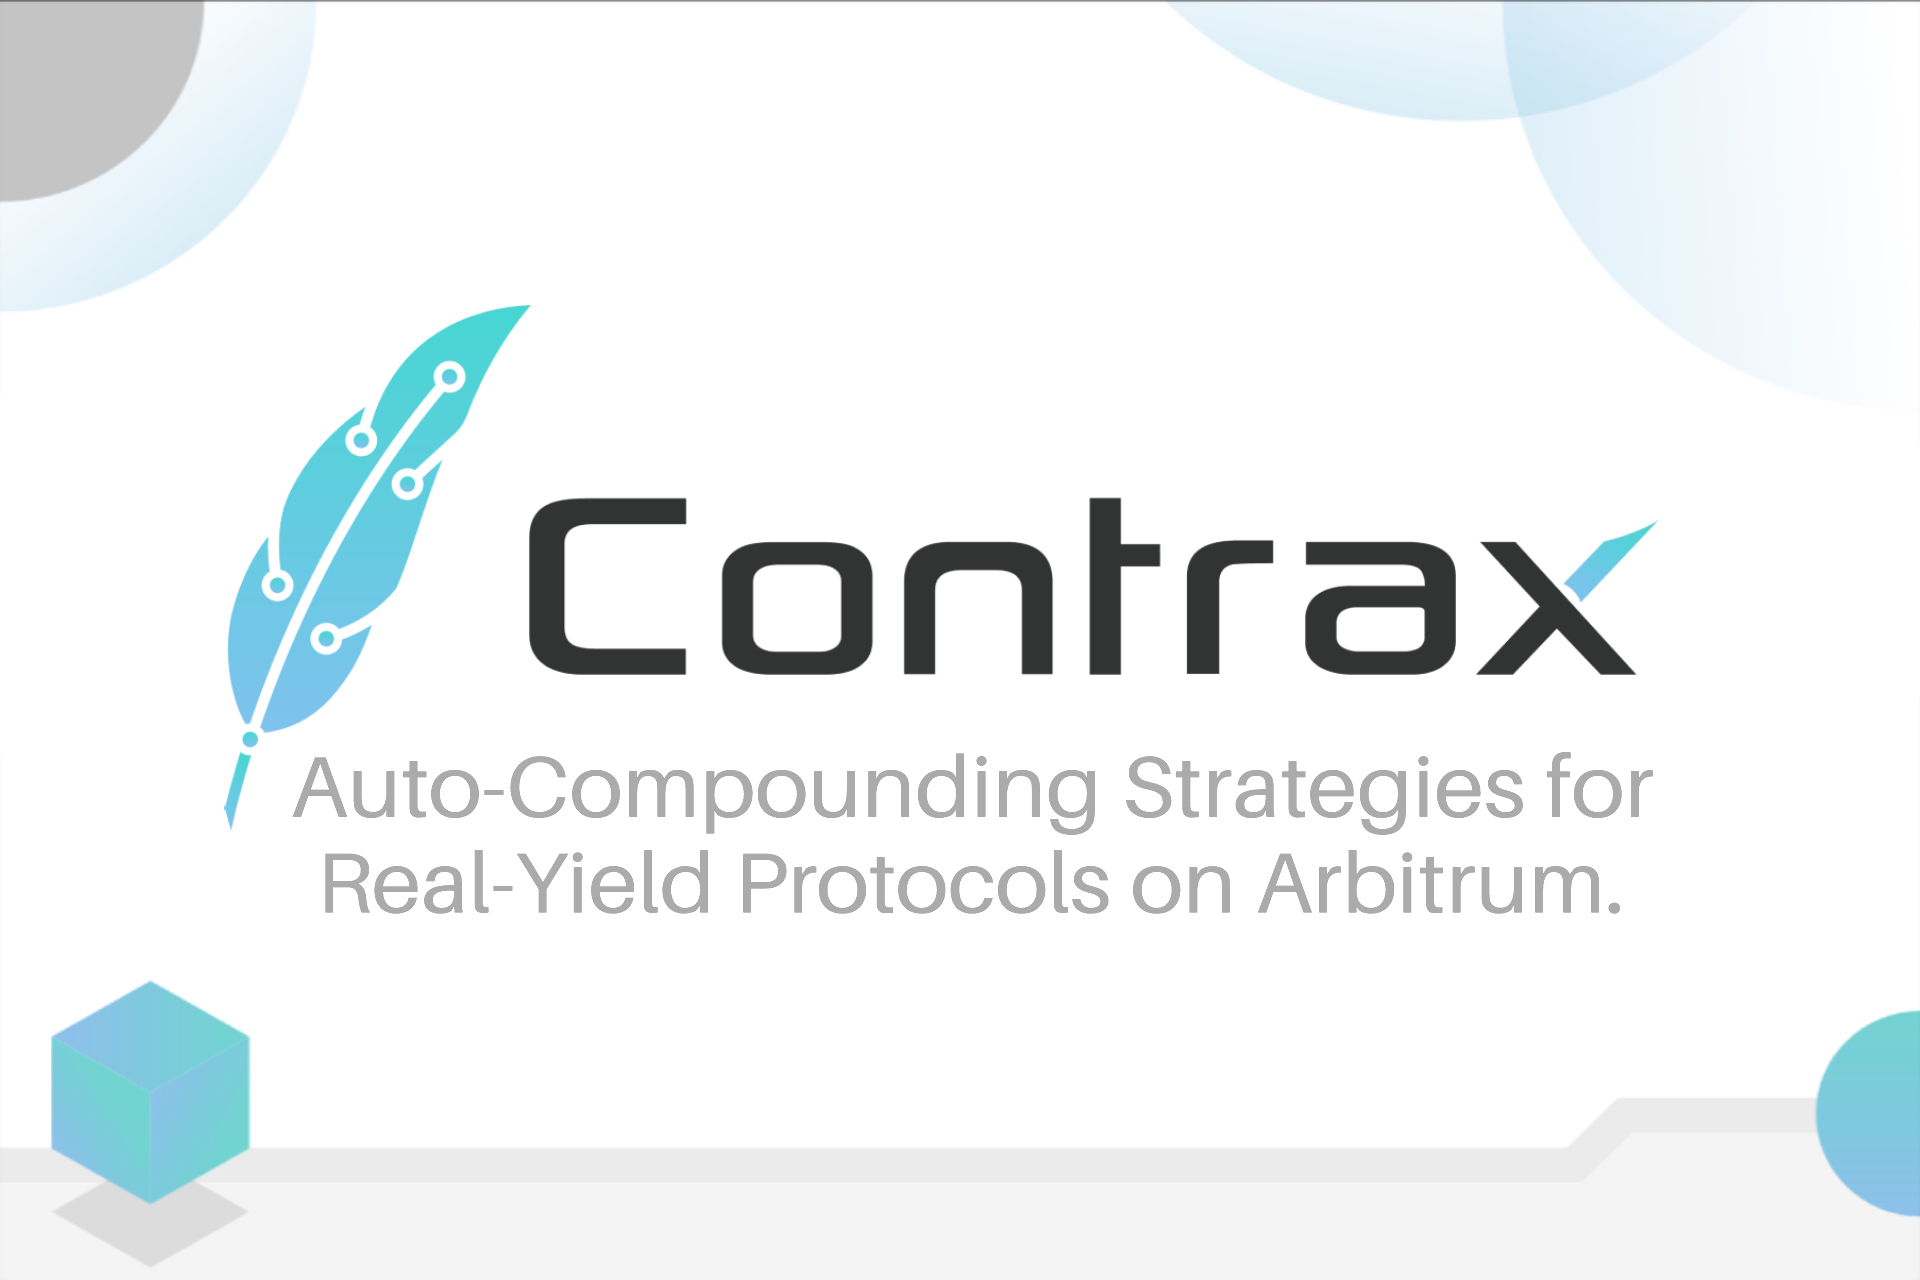
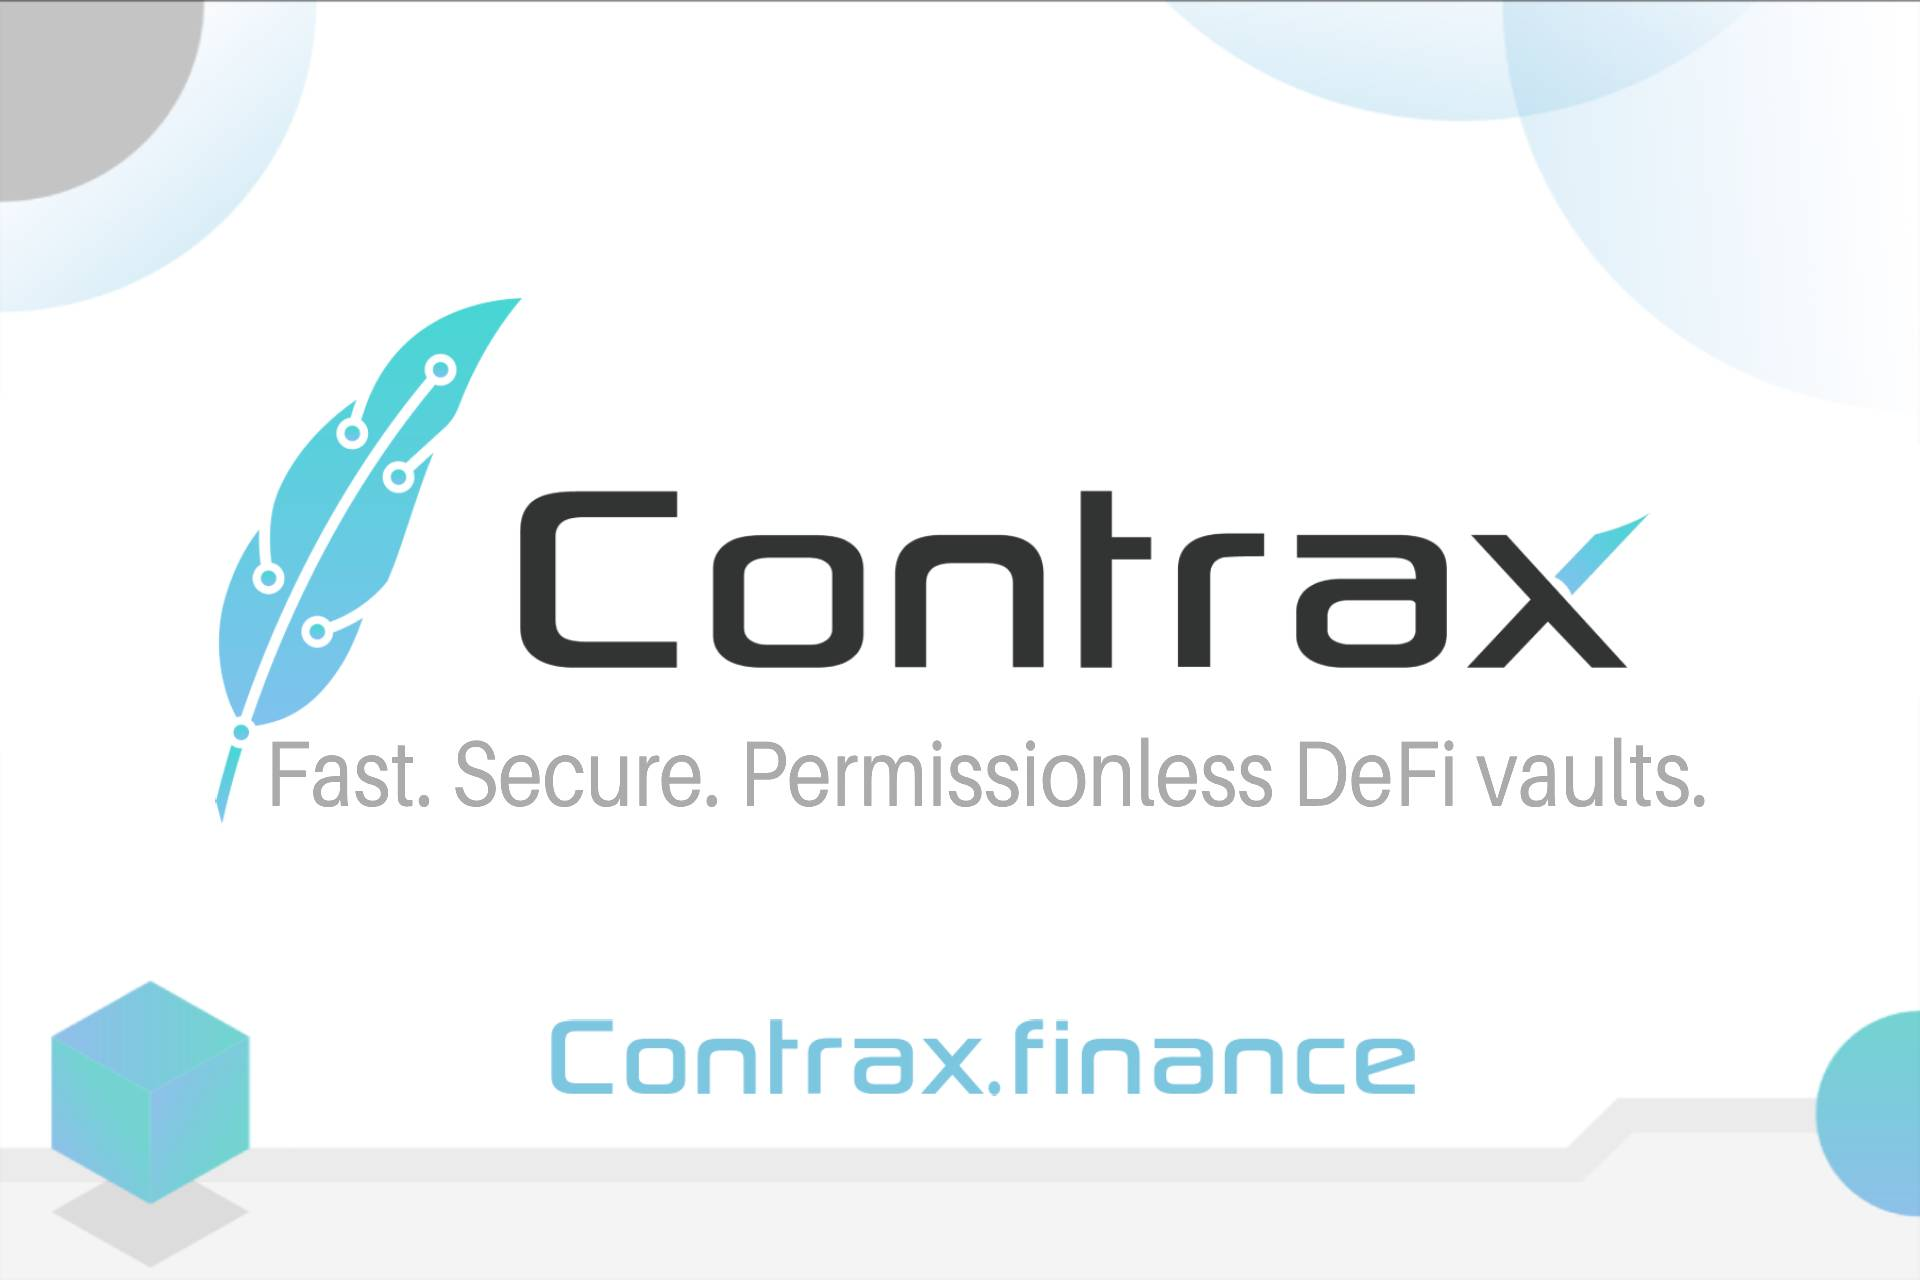
content and link updates

Changed region(s): [[0.0938, 0.2188, 0.9062, 0.7188], [0.2812, 0.7812, 0.75, 0.875]]

diff --git a/index.html b/index.html
@@ -377,7 +377,7 @@
         <div class="columns is-centered">
           <div class="column is-three-fifths">
             <h1 class="title is-spaced is-size-3-desktop is-size-4-mobile">
-              Hello world.
+              Hello, World!
             </h1>
             <h2 class="subtitle is-size-5-desktop">
               I'm KJ, a software developer from New Jersey with a background in
@@ -389,15 +389,9 @@
                 >Contrax.finance,</a
               >
               a decentralized finance application on the
-              <em>Arbitrum One</em> blockchain. I also run the virtual side of
-              the
-              <a
-                href="https://cantocurb.com/"
-                target="_blank"
-                class="no-dec bio-link"
-                >CanToCurb.com</a
-              >
-              business here in South Jersey. Let's connect on
+              <em>Arbitrum One</em> blockchain, making it simple for users to
+              take custody of their crypto assets and put them to work in
+              yield-generating DeFi protocols. Let's connect on
               <a
                 href="https://www.linkedin.com/in/kjmagill/"
                 target="_blank"
@@ -542,7 +536,7 @@
                     href="https://todeskobookkeeping.com/"
                     target="_blank"
                   >
-                    <span>View Code</span>
+                    <span>View Website</span>
                     <span class="icon">
                       <i class="fas fa-angle-right"></i>
                     </span>
@@ -559,15 +553,15 @@
                 <figcaption>
                   <h1 class="title is-size-5 is-size-4-widescreen">
                     <em>Co-founder | Lead Developer</em><br />
-                    No-code development tools &amp; auto-compounding vaults on
-                    Arbitrum.
+                    Next.js landing page &amp; React.js web app designed for
+                    simplified DeFi onboarding.
                   </h1>
                   <a
                     class="button is-primary is-outlined is-rounded"
-                    href="https://github.com/Contrax-co"
+                    href="https://contrax.finance"
                     target="_blank"
                   >
-                    <span>View Code</span>
+                    <span>View Website</span>
                     <span class="icon">
                       <i class="fas fa-angle-right"></i>
                     </span>
@@ -636,8 +630,8 @@
                 <figcaption>
                   <h1 class="title is-size-5 is-size-4-widescreen">
                     <em>Front-end Developer</em><br />
-                    React app for connecting vetted caretakers with families at
-                    the airport.
+                    React.js web app for connecting vetted caretakers w/
+                    families at the airport.
                   </h1>
                   <a
                     class="button is-primary is-outlined is-rounded"
@@ -660,8 +654,8 @@
                 <figcaption>
                   <h1 class="title is-size-5 is-size-4-widescreen">
                     <em>Front-end Developer</em><br />
-                    React app for AirBnB hosts to analyze local listings and
-                    optimize their offerings.
+                    React.js web app for AirBnB hosts to analyze local listings
+                    &amp; optimize their offerings.
                   </h1>
                   <a
                     class="button is-primary is-outlined is-rounded"
